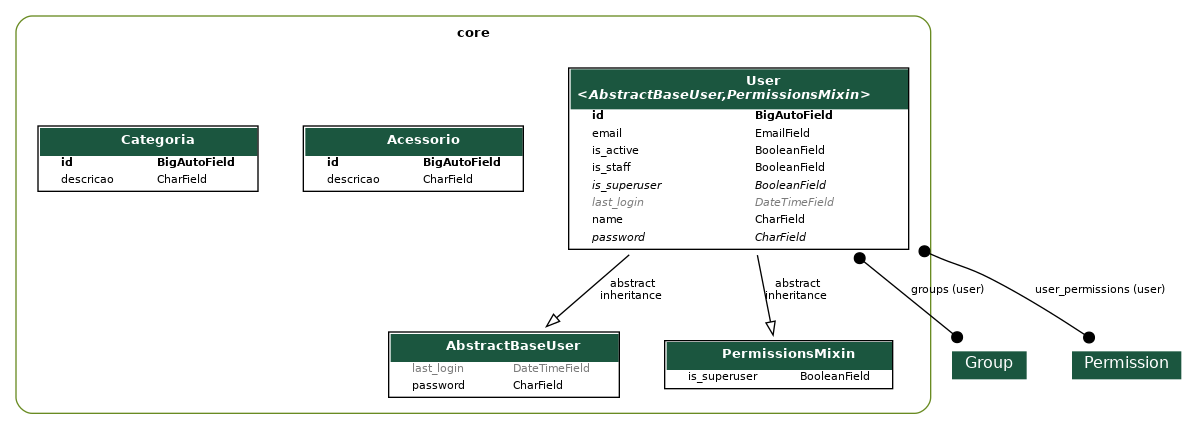
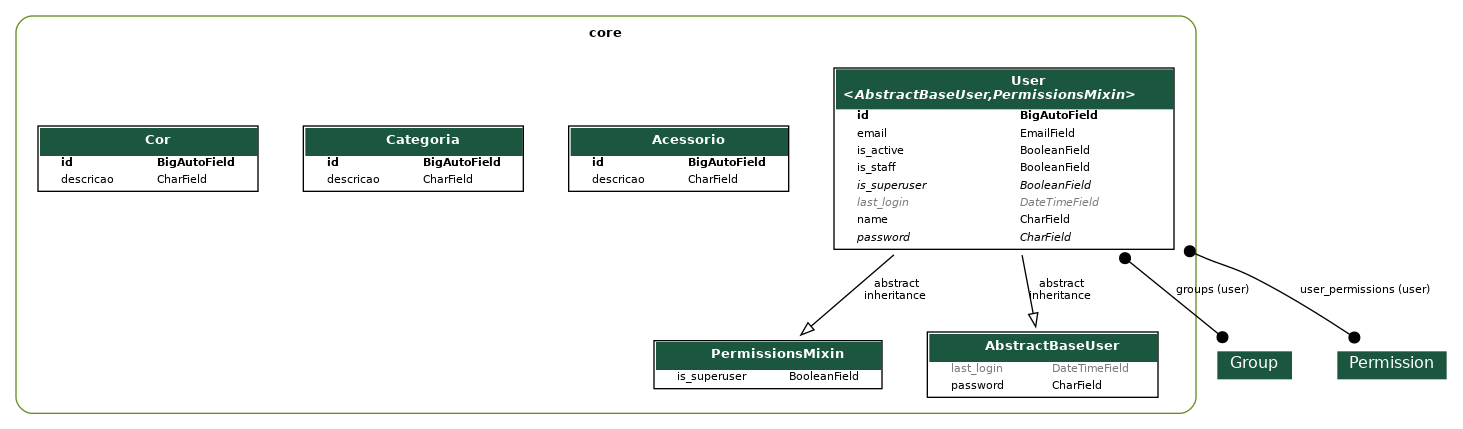
Começando API Cor

diff --git a/core/migrations/0004_cor.py b/core/migrations/0004_cor.py
@@ -1,0 +1,20 @@
+# Generated by Django 5.0.2 on 2024-03-25 15:50
+
+from django.db import migrations, models
+
+
+class Migration(migrations.Migration):
+
+    dependencies = [
+        ("core", "0003_categoria"),
+    ]
+
+    operations = [
+        migrations.CreateModel(
+            name="Cor",
+            fields=[
+                ("id", models.BigAutoField(auto_created=True, primary_key=True, serialize=False, verbose_name="ID")),
+                ("descricao", models.CharField(max_length=100)),
+            ],
+        ),
+    ]

diff --git a/core/admin.py b/core/admin.py
@@ -51,3 +51,4 @@ class UserAdmin(BaseUserAdmin):
 admin.site.register(models.User, UserAdmin)
 admin.site.register(models.Acessorio)
 admin.site.register(models.Categoria)
+admin.site.register(models.Cor)

diff --git a/core/models/cor.py b/core/models/cor.py
@@ -1,0 +1,7 @@
+from django.db import models
+
+class Cor(models.Model):
+    nome = models.CharField(max_length=100)
+    ...
+    def __str__(self):
+        return self.nome

diff --git a/core/models/__init__.py b/core/models/__init__.py
@@ -2,3 +2,4 @@ from .user import User
 
 from .acessorio import Acessorio
 from .categoria import Categoria
+from .cor import Cor
